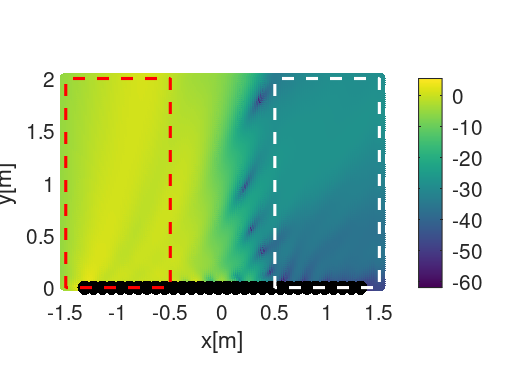
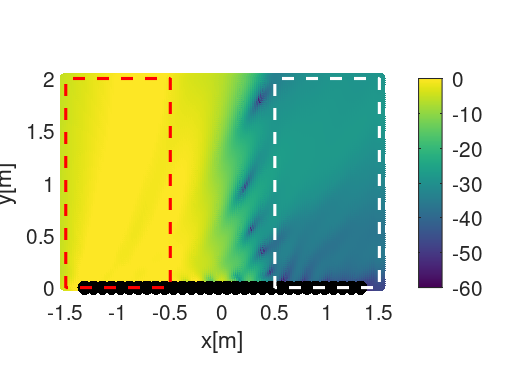
カラーバーの基準を固定

diff --git a/spl_distribution.m b/spl_distribution.m
@@ -74,7 +74,7 @@ h5 = plot(con_dz(:,1), con_dz(:,2), 'w--', 'LineWidth', 1.5); hold off;
 % グラフの装飾設定
 xlabel("x[m]"); ylabel("y[m]"); % 軸のラベル
 colorbar                        % 画面右側に音圧の大きさと色の対応を示すカラーバーを表示
-% clim([-60 0])                 % （コメントアウト：カラーバーの最小値・最大値を固定したい場合に使用）
+clim([-60 0])                 % （コメントアウト：カラーバーの最小値・最大値を固定したい場合に使用）
 daspect([1 1 1])                % 空間の縦横比（アスペクト比）を 1:1 に固定
 grid on;                        % 背景に格子線を表示
 
